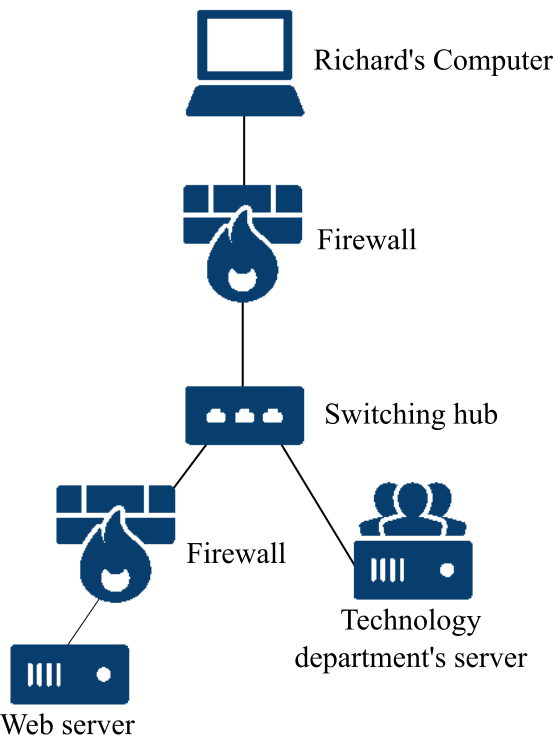
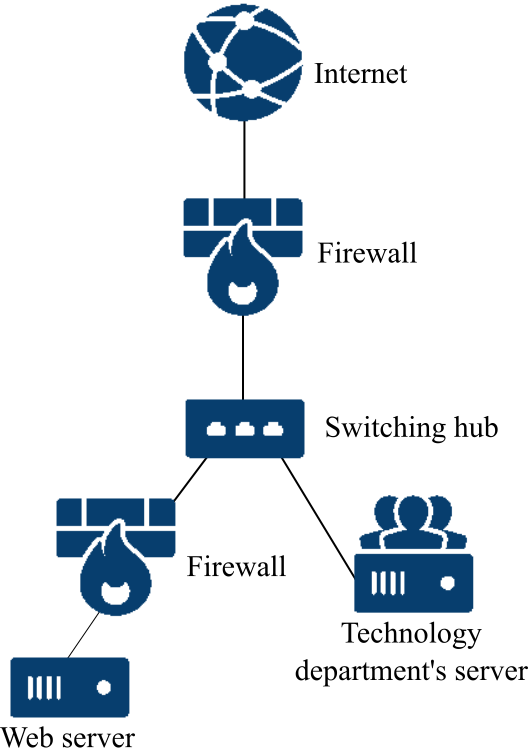
Firewallのインストールページの画像をRichard's computerからInternetに変更

Changed region(s): [[0.303, 0.0, 1.0, 0.9362], [0.0909, 0.6554, 0.5455, 0.8426], [0.0, 0.8426, 0.2727, 0.9986]]

diff --git a/index.html b/index.html
@@ -367,7 +367,7 @@ Next\n
 						>>>
 						### Firewall is installed in the web server
 						- - -
-						<img src="./img/ns-fw.png" width=340></img>
+						<img src="./img/ns-fw.png" width=320></img>
 
 						This firewall is for connection rate limit.
 
